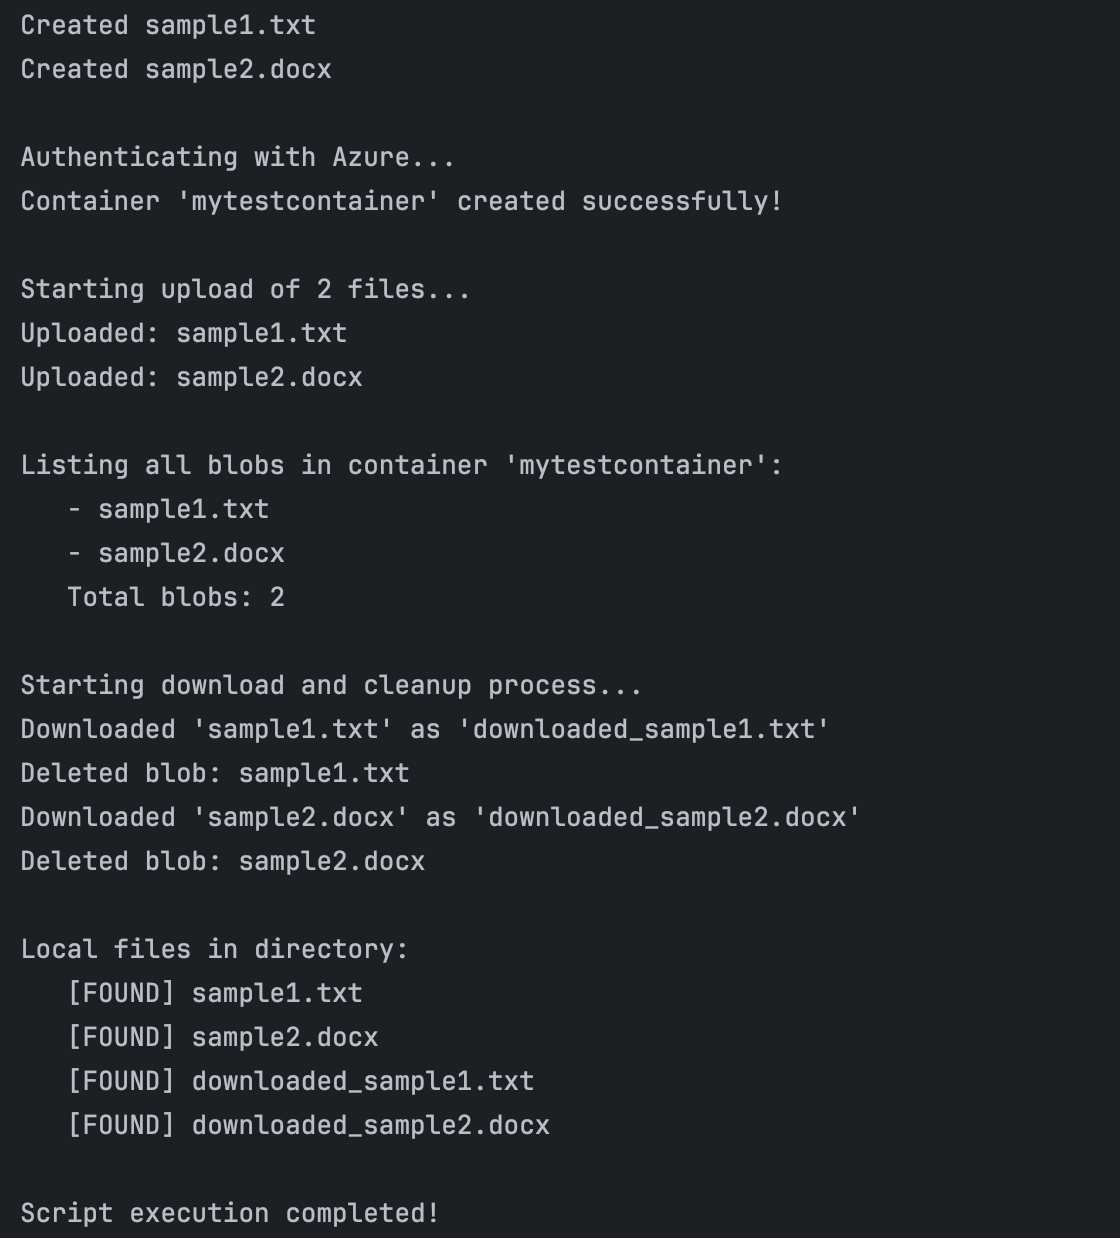
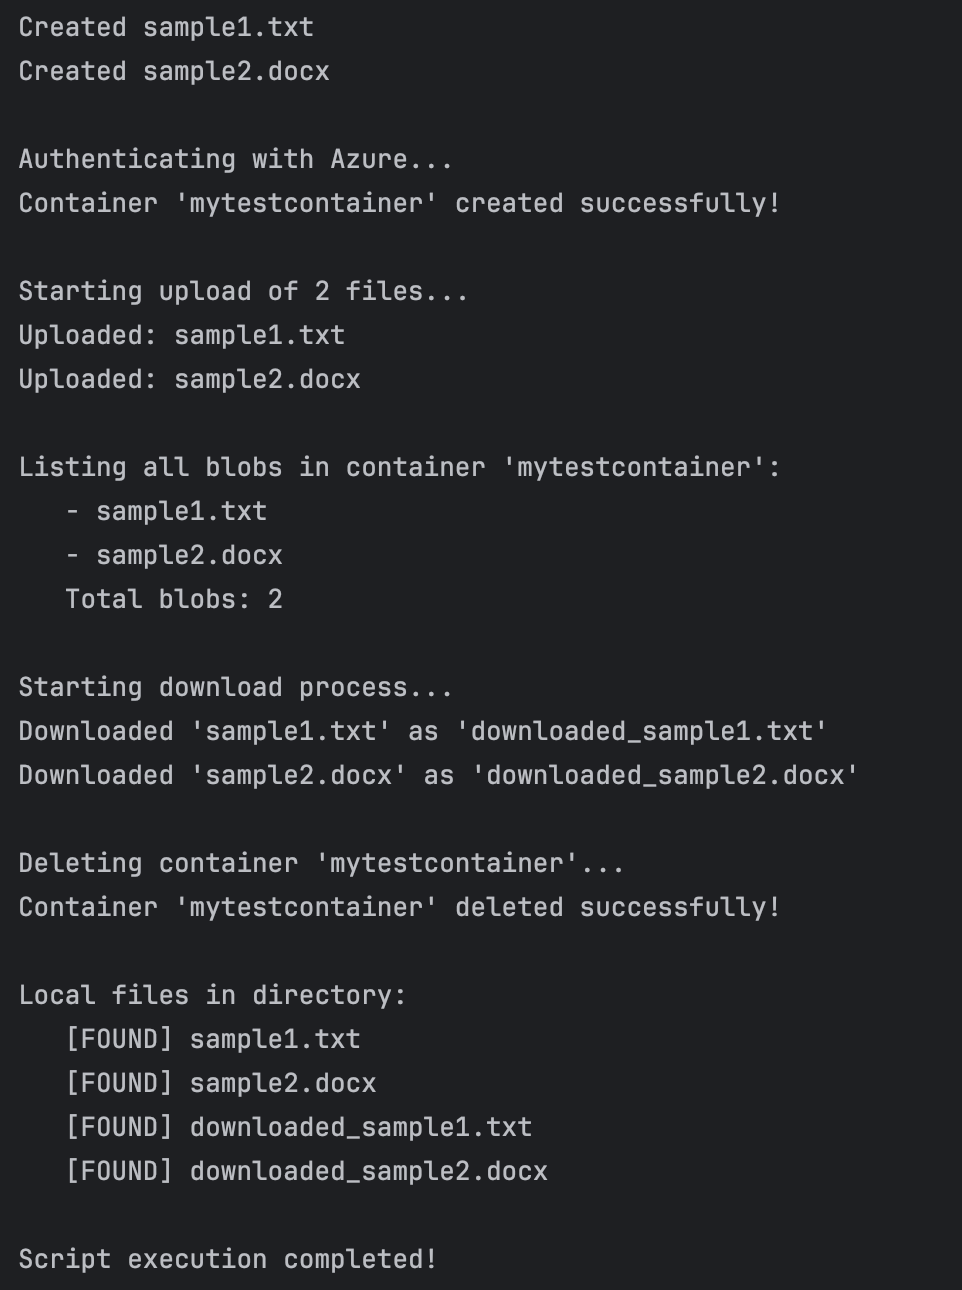
Updated README file

diff --git a/README.md b/README.md
@@ -85,21 +85,22 @@ Uploaded: sample1.txt
 Uploaded: sample2.docx
 
 Listing all blobs in container 'mytestcontainer':
-- sample1.txt
-- sample2.docx
-Total blobs: 2
+   - sample1.txt
+   - sample2.docx
+   Total blobs: 2
 
-Starting download and cleanup process...
+Starting download process...
 Downloaded 'sample1.txt' as 'downloaded_sample1.txt'
-Deleted blob: sample1.txt
 Downloaded 'sample2.docx' as 'downloaded_sample2.docx'
-Deleted blob: sample2.docx
+
+Deleting container 'mytestcontainer'...
+Container 'mytestcontainer' deleted successfully!
 
 Local files in directory:
-[FOUND] sample1.txt
-[FOUND] sample2.docx
-[FOUND] downloaded_sample1.txt
-[FOUND] downloaded_sample2.docx
+   [FOUND] sample1.txt
+   [FOUND] sample2.docx
+   [FOUND] downloaded_sample1.txt
+   [FOUND] downloaded_sample2.docx
 
 Script execution completed!
 ```
